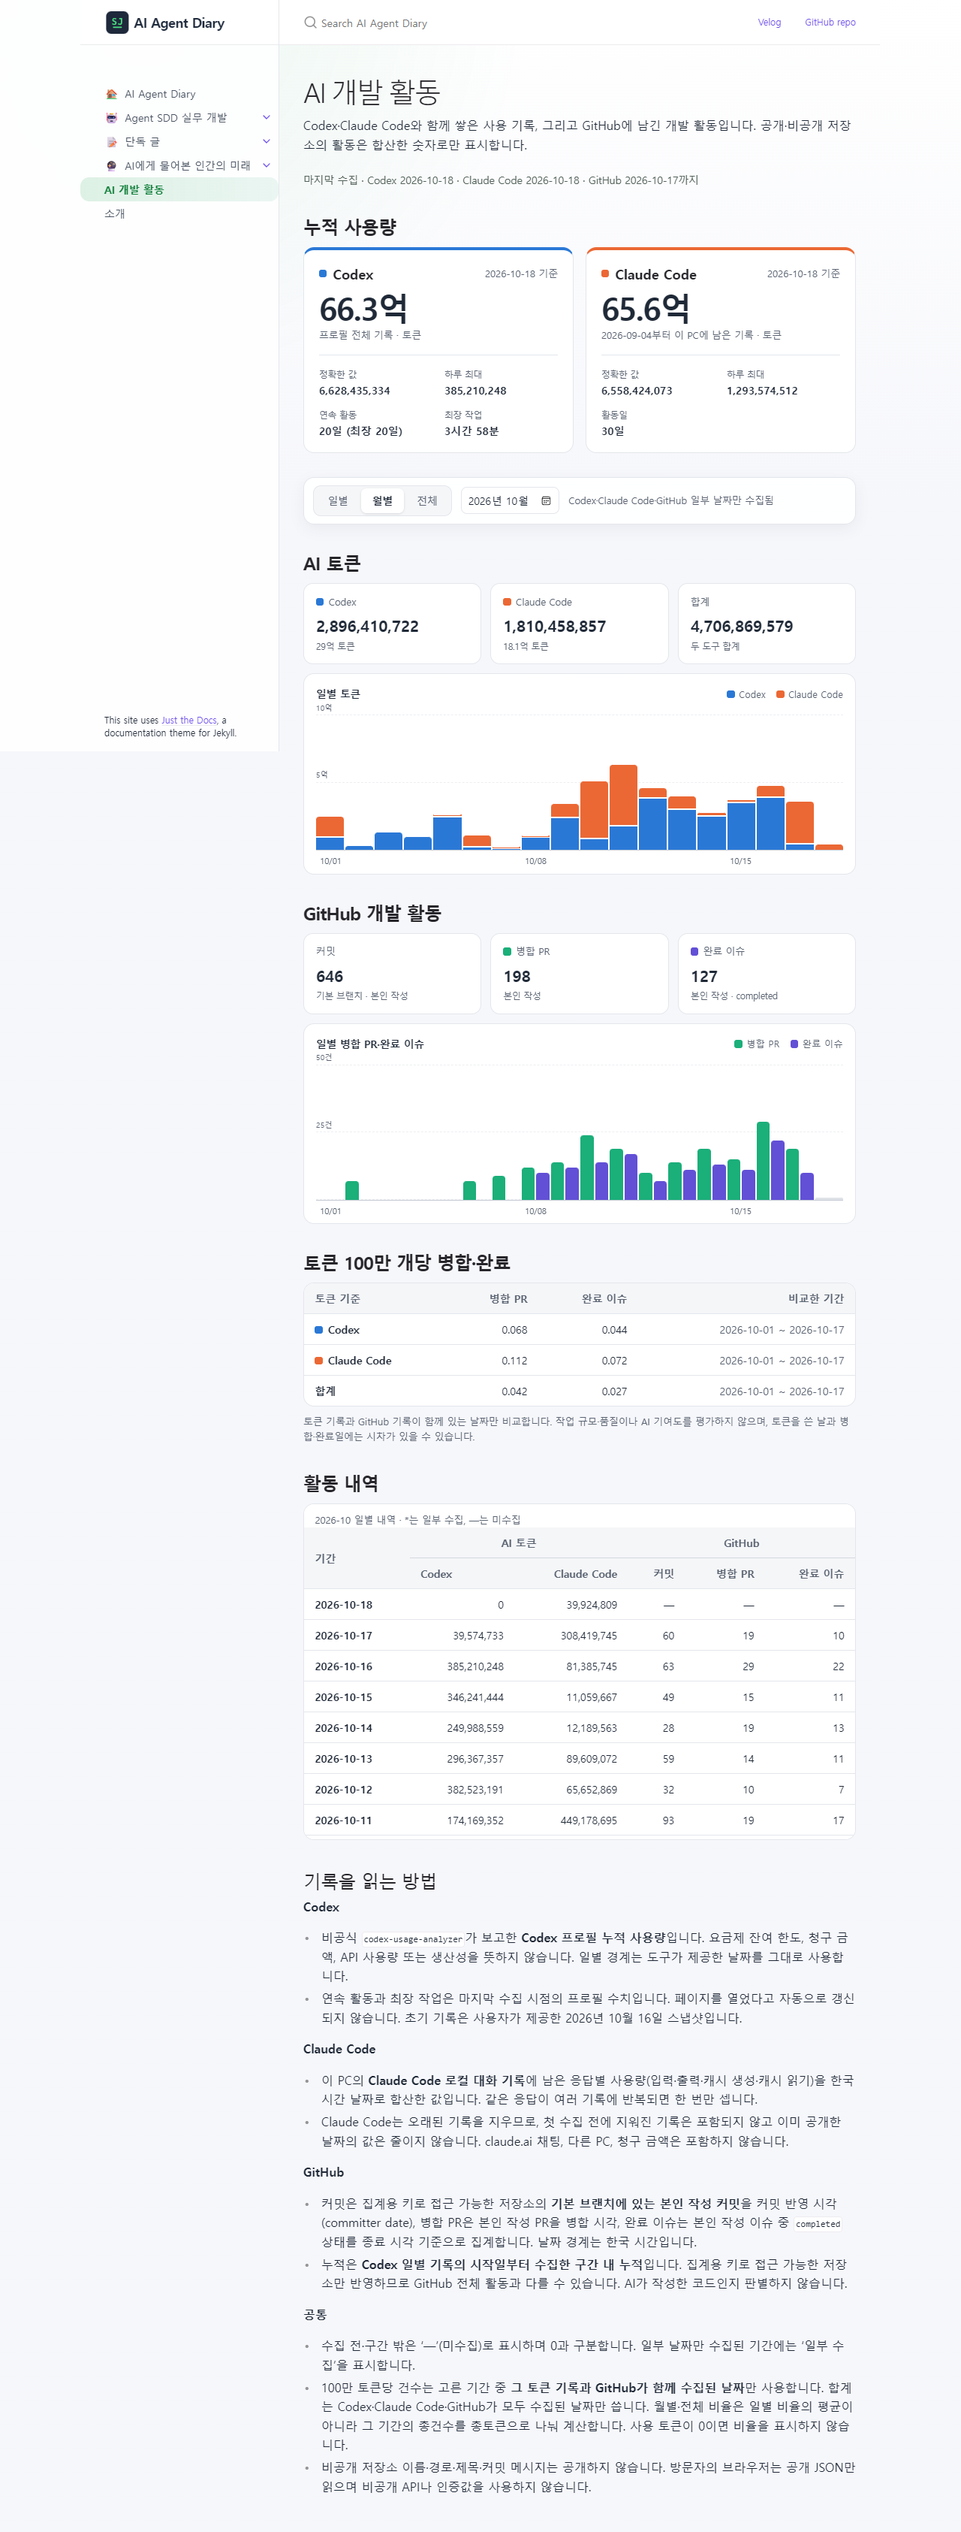
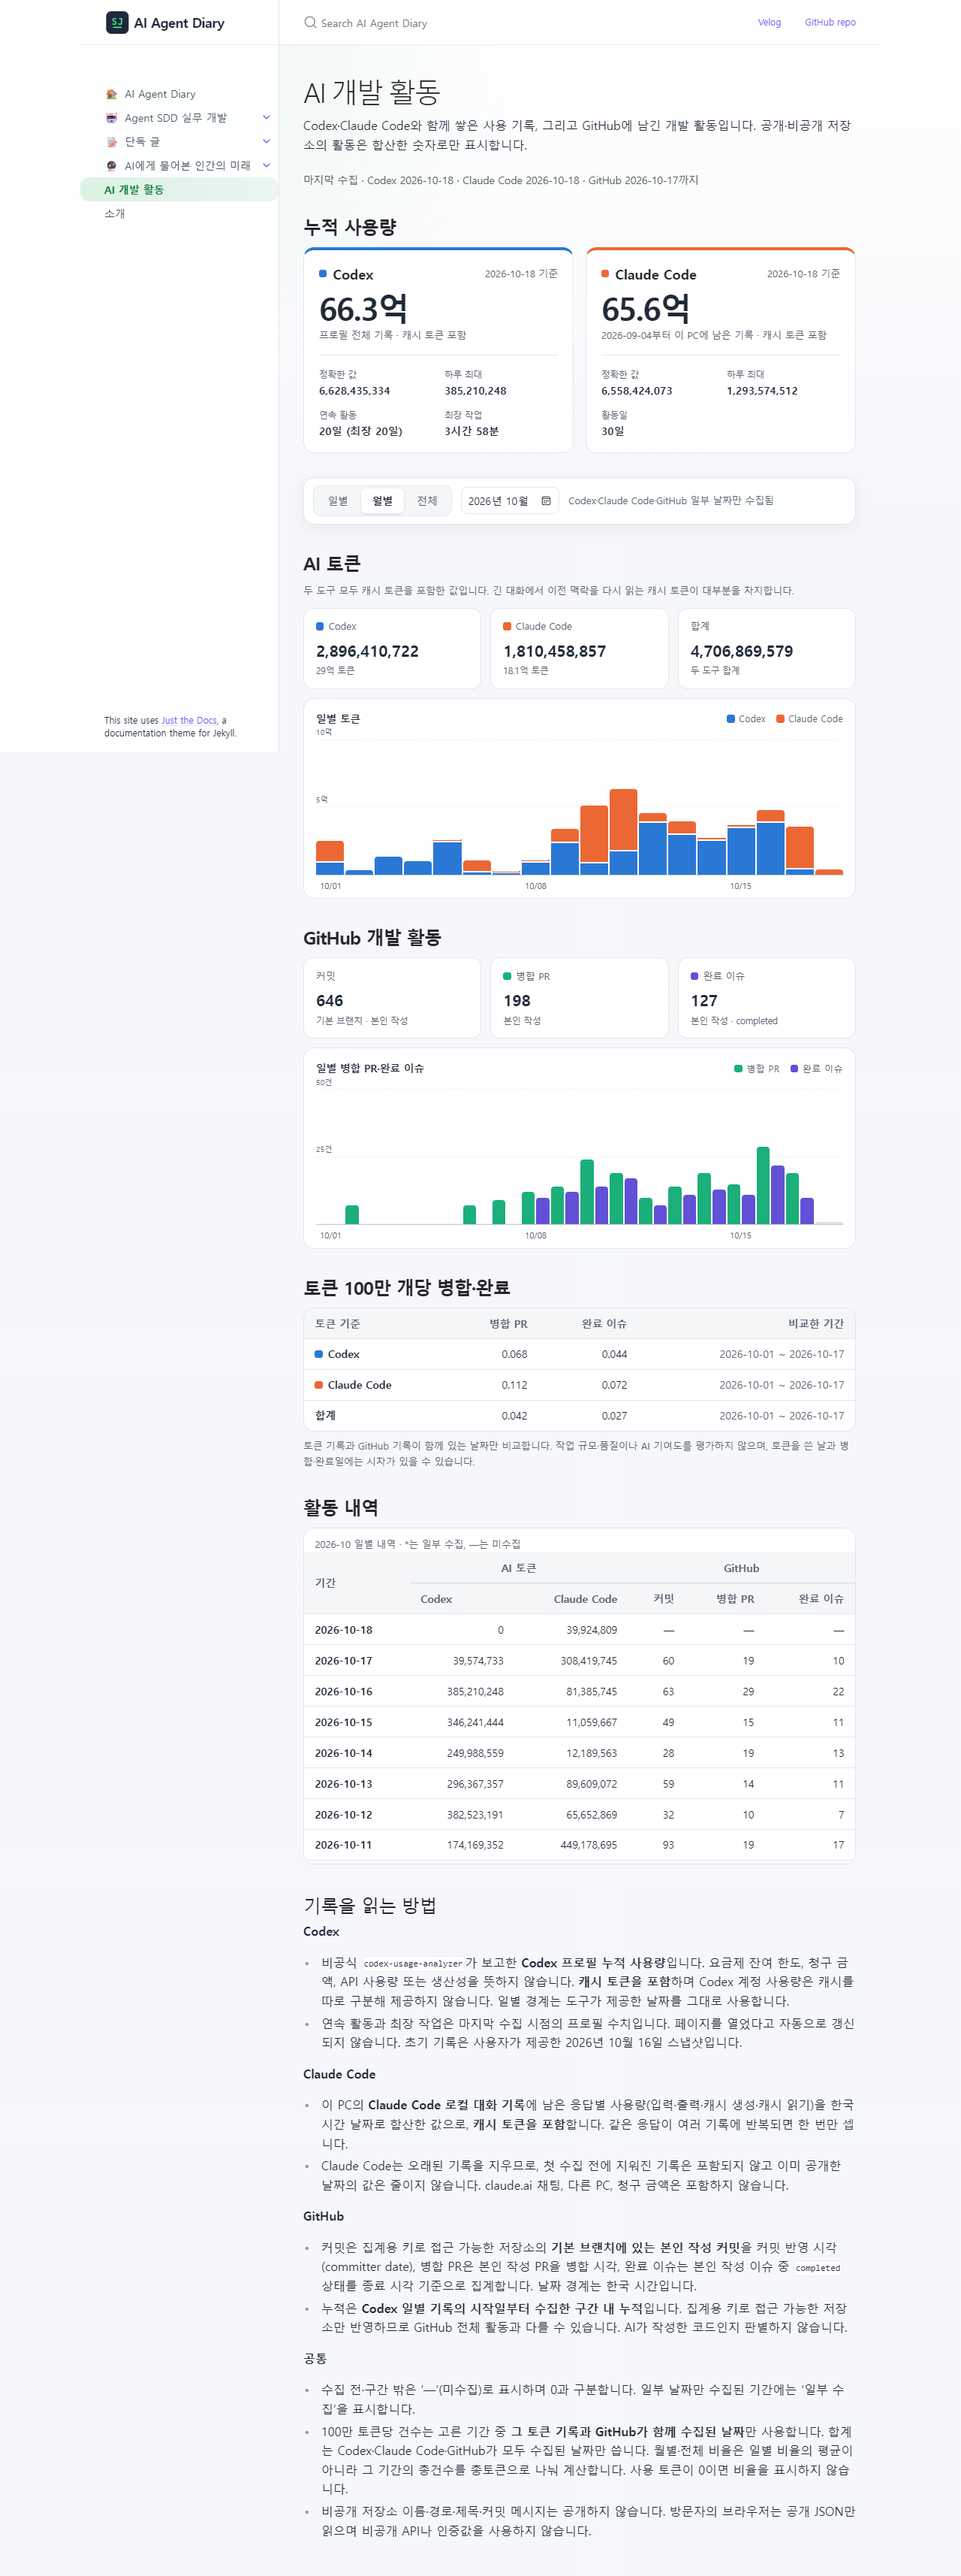
State that activity token counts include cache tokens

diff --git a/docs/assets/activity/dashboard.js b/docs/assets/activity/dashboard.js
@@ -229,7 +229,7 @@
       el("claude-asof").textContent = a ? a.asOf + " 기준" : "";
       el("claude-total").title = a ? count(a.summary.totalTokens) + " 토큰" : "";
       if (a) {
-        el("claude-range").textContent = (a.daily.length ? a.daily[0].date + "부터 " : "") + "이 PC에 남은 기록 · 토큰";
+        el("claude-range").textContent = (a.daily.length ? a.daily[0].date + "부터 " : "") + "이 PC에 남은 기록 · 캐시 토큰 포함";
         facts(el("claude-facts"), [
           ["정확한 값", count(a.summary.totalTokens)],
           ["하루 최대", count(a.summary.peakDailyTokens)],

diff --git a/docs/_sass/custom/custom.scss b/docs/_sass/custom/custom.scss
@@ -31,6 +31,7 @@ $archive-accent: #059669;
   .ad-visually-hidden { position: absolute; width: 1px; height: 1px; overflow: hidden; clip: rect(0 0 0 0); white-space: nowrap; }
   .ad-section { margin: 2.25rem 0 0; }
   .ad-heading { margin: 0 0 0.75rem; padding: 0; font-size: 1.1rem; font-weight: 700; }
+  .ad-section-note { margin: -0.4rem 0 0.75rem; }
   .ad-key { display: inline-block; flex: none; width: 0.65rem; height: 0.65rem; border-radius: 3px; vertical-align: baseline; }
   .ad-key--codex { background: var(--ad-codex); }
   .ad-key--claude { background: var(--ad-claude); }
